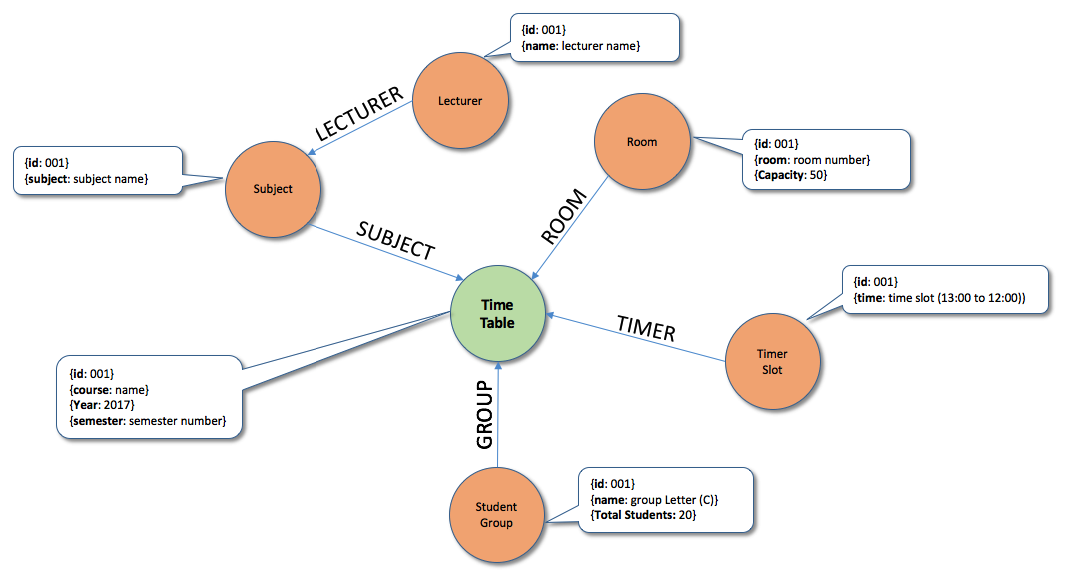
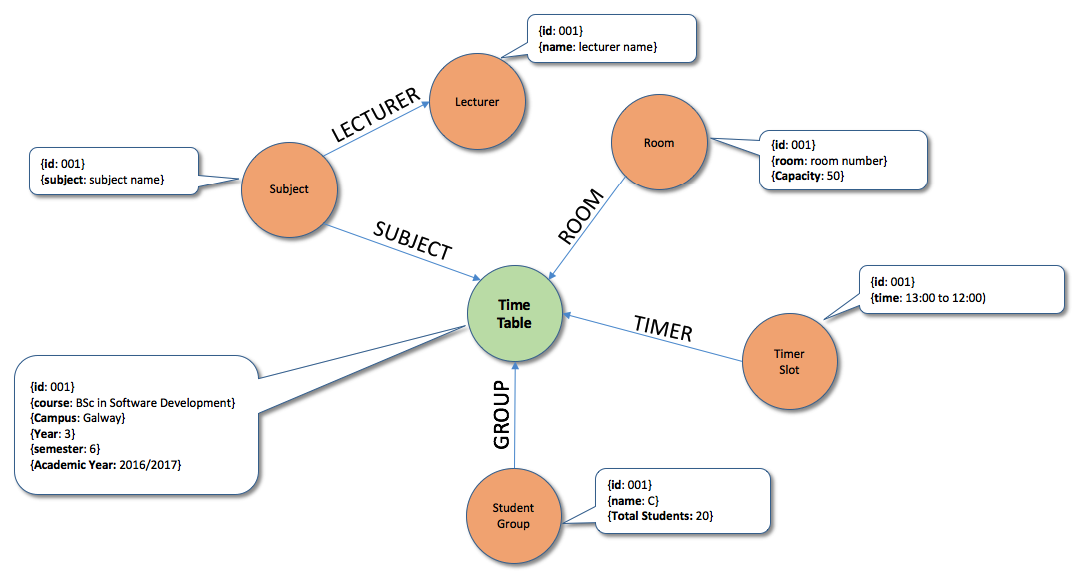
Creating Nodes Room, Time table, Timer Slot

Changed region(s): [[0.0, 0.0, 0.8676, 1.0], [0.5577, 0.4688, 1.0, 0.7188]]

diff --git a/README.md b/README.md
@@ -44,15 +44,27 @@ will store information about student groups, classrooms, lecturers, and work hou
 
 
 ### Cypher Statements
-#### Create
+#### Create Node
+TimeTable
 ```
-CREATE (SoftDev3:TimeTable {course: 'BSc in Software Development', campus: 'Galway', year: 3, semester: 6, academicYear: '2016/2017'})
-.....
+CREATE (SoftDev3:TimeTable {course: 'BSc in Software Development', campus: 'Galway', 
+year: 3, semester: 6, academicYear: '2016/2017'})
+```
+Room
+```
+CREATE (room994:Room {room: 'Room 994', capacity: 90})
+```
+Timer Slot
+```
+CREATE (time13to14:TimerSlot {time: '13:00 to 14:00'})
+```
 
-```
+#### Create Relationships
+
+
 
 #### Delete
 ```
-MATCH (r) WHERE id(r) = 14 DELETE (r);
+
 ```
 
